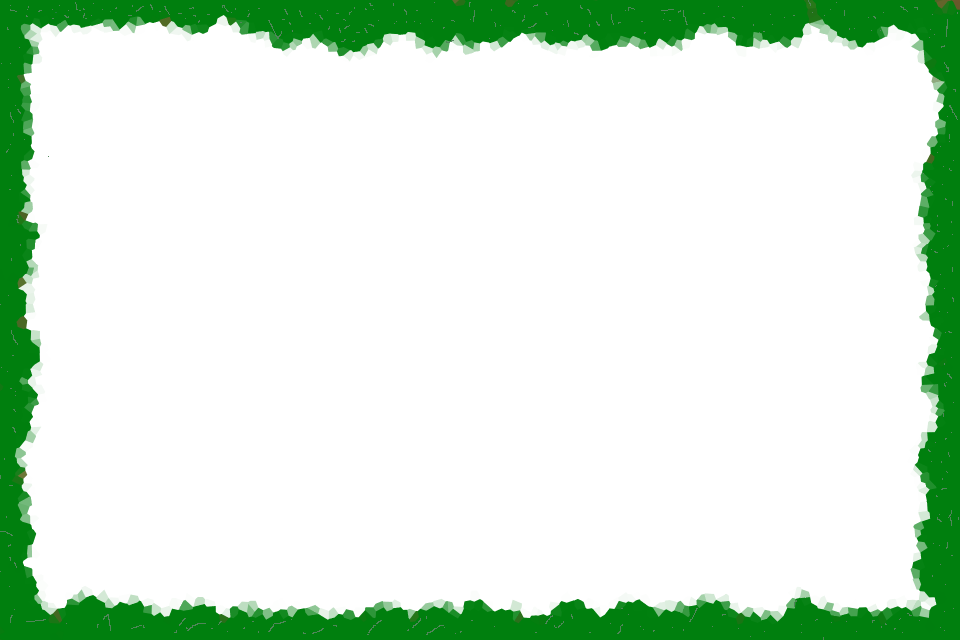
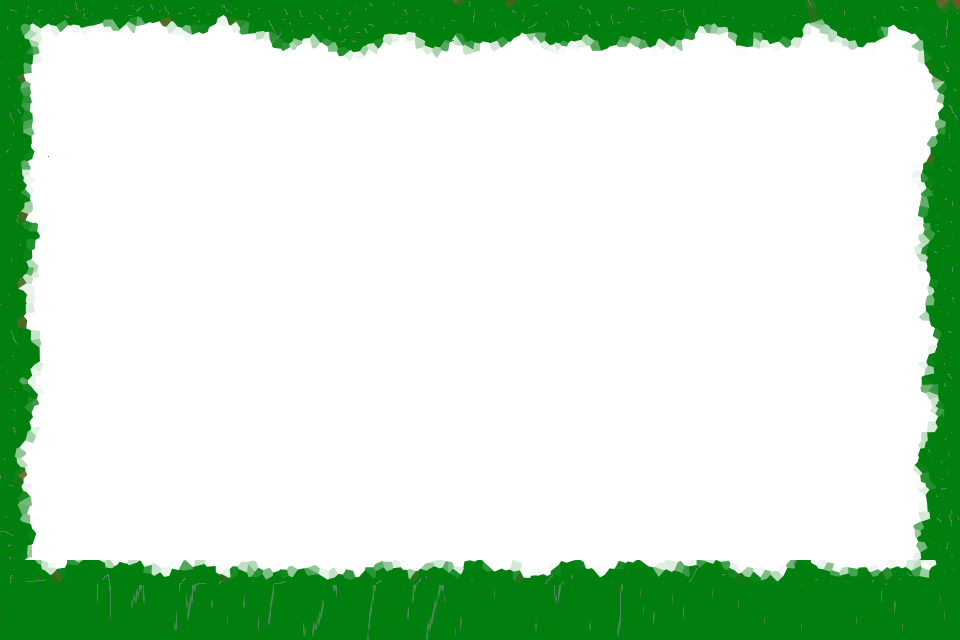
Some lighting

Changed region(s): [[0.0, 0.875, 0.9688, 1.0]]

diff --git a/core/src/net/lostsocket/ld42/scenes/GameScene.java b/core/src/net/lostsocket/ld42/scenes/GameScene.java
@@ -1,16 +1,19 @@
 package net.lostsocket.ld42.scenes;
 
+import com.badlogic.gdx.graphics.GL20;
 import com.badlogic.gdx.graphics.Texture;
+import com.badlogic.gdx.graphics.g2d.Sprite;
 import com.badlogic.gdx.graphics.g2d.SpriteBatch;
 
 import net.lostsocket.ld42.GameManager;
 import net.lostsocket.ld42.entities.MapBackground;
+import net.lostsocket.ld42.entities.Player;
 
 public class GameScene extends AbstractScene{
 
 	private Texture bgTexture = new Texture("MapBg.png");
 	private Texture bgForest = new Texture("Forest.png");
-	private GameManager gameManager;
+	private Sprite lightMask = new Sprite(new Texture("lightMask.png"));
 	
 	@Override
 	public void load() {
@@ -23,12 +26,24 @@ public class GameScene extends AbstractScene{
 	public void dispose() {
 		System.out.println("Game Scene Disposed!");
 		bgTexture.dispose();
+		bgForest.dispose();
+		lightMask.getTexture().dispose();
 	}
 
 	@Override
 	public void customRender(SpriteBatch batch) {
 		batch.draw(bgForest, 0, 0);
-		gameManager.renderUI(batch);
+		
+		batch.setBlendFunction(GL20.GL_DST_COLOR, GL20.GL_SRC_ALPHA);
+		if(Player.instance != null) {
+			lightMask.setPosition(Player.instance.transform.position.x - 984, Player.instance.transform.position.y - 984);
+		}else {
+			lightMask.setPosition(0, 0);
+		}
+		lightMask.draw(batch, 0.2f);
+		batch.setBlendFunction(GL20.GL_SRC_ALPHA, GL20.GL_ONE_MINUS_SRC_ALPHA);
+		
+		GameManager.instance.renderUI(batch);
 	}
 }
  

diff --git a/core/src/net/lostsocket/ld42/GameManager.java b/core/src/net/lostsocket/ld42/GameManager.java
@@ -9,17 +9,21 @@ import net.lostsocket.ld42.entities.Player;
 import net.lostsocket.ld42.entities.Zombie;
 import net.lostsocket.ld42.scenes.GameScene;
 import net.lostsocket.ld42.scenes.SceneManager;
+import net.lostsocket.ld42.ui.InGameUI;
+import net.lostsocket.ld42.ui.UI;
 
 public class GameManager extends Entity {
 	
 	public static GameManager instance;
-	
+
 	private int wave = 1;
 	private int nZombiesAlive = 0;
 	private int totalNumKills = 0;
 	
 	private enum GameState { NOT_STARTED, PLAYING, GAME_OVER }
 	private GameState currentState = GameState.NOT_STARTED;
+	
+	private UI currentUI;
 	
 	public GameManager() {
 		super(0);
@@ -49,6 +53,7 @@ public class GameManager extends Entity {
 		currentScene.addEntity(new Player());
 		nextWaveLogic();
 		currentState = GameState.PLAYING;
+		changeUI(new InGameUI());
 	}
 	
 	public void onZombieDead() {
@@ -78,7 +83,28 @@ public class GameManager extends Entity {
 	}
 	
 	public void renderUI(SpriteBatch batch) {
+		if(currentUI == null)
+			return;
 		
+		currentUI.render(batch);
+	}
+	
+	private void changeUI(UI newUI) {
+		if(currentUI != null)
+			currentUI.dispose();
+		currentUI = newUI;
+	}
+	
+	public int getWave() {
+		return wave;
+	}
+
+	public int getnZombiesAlive() {
+		return nZombiesAlive;
+	}
+
+	public int getTotalNumKills() {
+		return totalNumKills;
 	}
 	
 	//TODO: Consider another strategy to avoid that

diff --git a/core/src/net/lostsocket/ld42/ui/InGameUI.java b/core/src/net/lostsocket/ld42/ui/InGameUI.java
@@ -1,0 +1,32 @@
+package net.lostsocket.ld42.ui;
+
+import com.badlogic.gdx.Gdx;
+import com.badlogic.gdx.graphics.Texture;
+import com.badlogic.gdx.graphics.g2d.BitmapFont;
+import com.badlogic.gdx.graphics.g2d.SpriteBatch;
+
+import net.lostsocket.ld42.GameManager;
+
+public class InGameUI extends UI{
+	
+	private BitmapFont font = new BitmapFont();
+	private Texture bottonRect = new Texture("BottomUIPannel.png");
+	private Texture waveRect = new Texture("WaveBG.png");
+	
+	@Override
+	public void render(SpriteBatch batch) {
+		batch.draw(waveRect, Gdx.graphics.getWidth() / 2 - 40, Gdx.graphics.getHeight()- 32);
+		font.draw(batch, "Wave: " + GameManager.instance.getWave(), Gdx.graphics.getWidth() / 2 - 15, Gdx.graphics.getHeight() - 10);
+		
+		batch.draw(bottonRect, 0, 0);
+		font.draw(batch, "Kills: " + GameManager.instance.getTotalNumKills(), 10, 25);
+	}
+
+
+	@Override
+	public void dispose() {
+		font.dispose();
+		bottonRect.dispose();
+		waveRect.dispose();
+	}
+}

diff --git a/core/src/net/lostsocket/ld42/entities/Player.java b/core/src/net/lostsocket/ld42/entities/Player.java
@@ -30,6 +30,9 @@ public class Player extends Mortal{
 		
 		handgun = new Handgun();
 		addComponent(handgun);
+		
+		transform.position.x = Gdx.graphics.getWidth() / 2 - 16;
+		transform.position.y = Gdx.graphics.getHeight() / 2 - 16;
 	}
 
 	@Override

diff --git a/core/src/net/lostsocket/ld42/ui/UI.java b/core/src/net/lostsocket/ld42/ui/UI.java
@@ -1,0 +1,7 @@
+package net.lostsocket.ld42.ui;
+
+import net.lostsocket.ld42.components.IRenderable;
+
+public abstract class UI implements IRenderable{
+	public abstract void dispose();
+}
